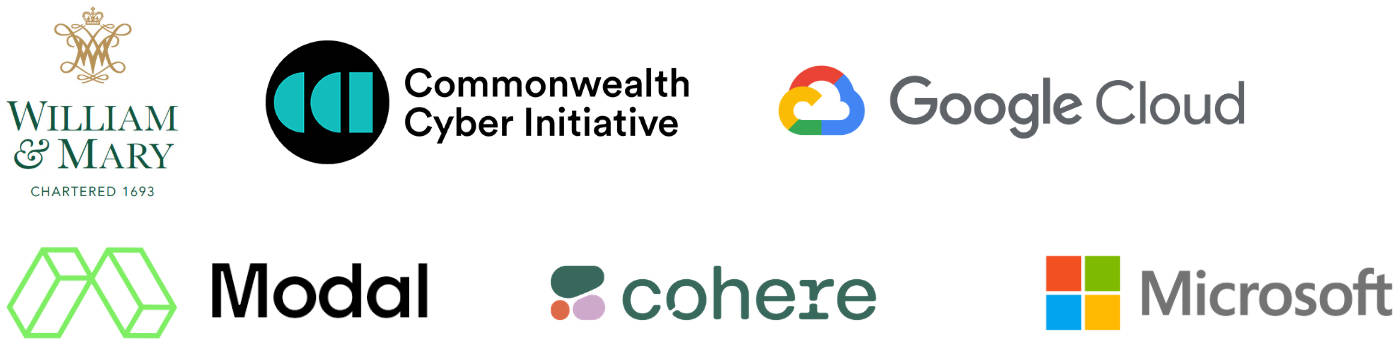
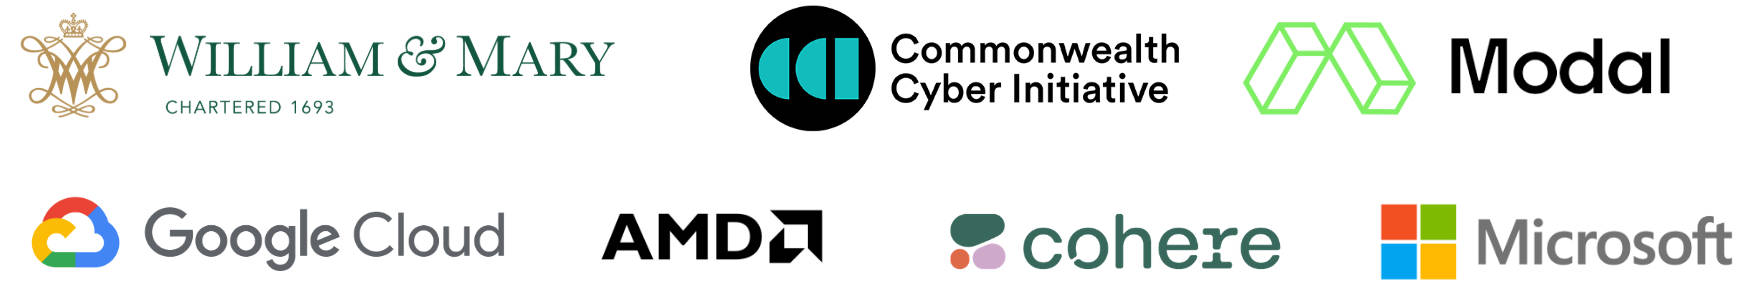
add: amd

diff --git a/_pages/research.md b/_pages/research.md
@@ -32,6 +32,7 @@ The long-term research goal is to understand and improve modern AI models, such 
 
 #### Funding and Grants
 
+- Principal Investigator. AMD University Program AI&HPC Award. 2025 - 2026.
 - Principal Investigator. Google Cloud Research Credit Award. 2025 - 2026.
 - Principal Investigator. Modal academic compute grant. 2025 - 2026.
 - Principal Investigator. Cohere Labs Catalyst Grant. 2025 - 2026.

diff --git a/_pages/awards.md b/_pages/awards.md
@@ -6,6 +6,7 @@ nav: true
 ---
 
 #### After PhD
+- AMD University Program AI&HPC Award. By AMD. 2025.
 - Google Cloud Research Credit Award. By Google Cloud. 2025.
 - Cohere Labs Catalyst Grant. By Cohere Labs. 2025.
 - Faculty Travel Grant. By William & Mary. 2025.

diff --git a/_news/nips-workshop-25.md b/_news/nips-workshop-25.md
@@ -1,0 +1,7 @@
+---
+layout: post
+date: 2025-10-13
+inline: true
+---
+
+Our NeurIPS 2025 workshop on LLM persona has been accepted!

diff --git a/_news/amd-hpc-25.md b/_news/amd-hpc-25.md
@@ -1,0 +1,7 @@
+---
+layout: post
+date: 2025-10-16
+inline: true
+---
+
+We got the **AMD University Program HPC Award**!
